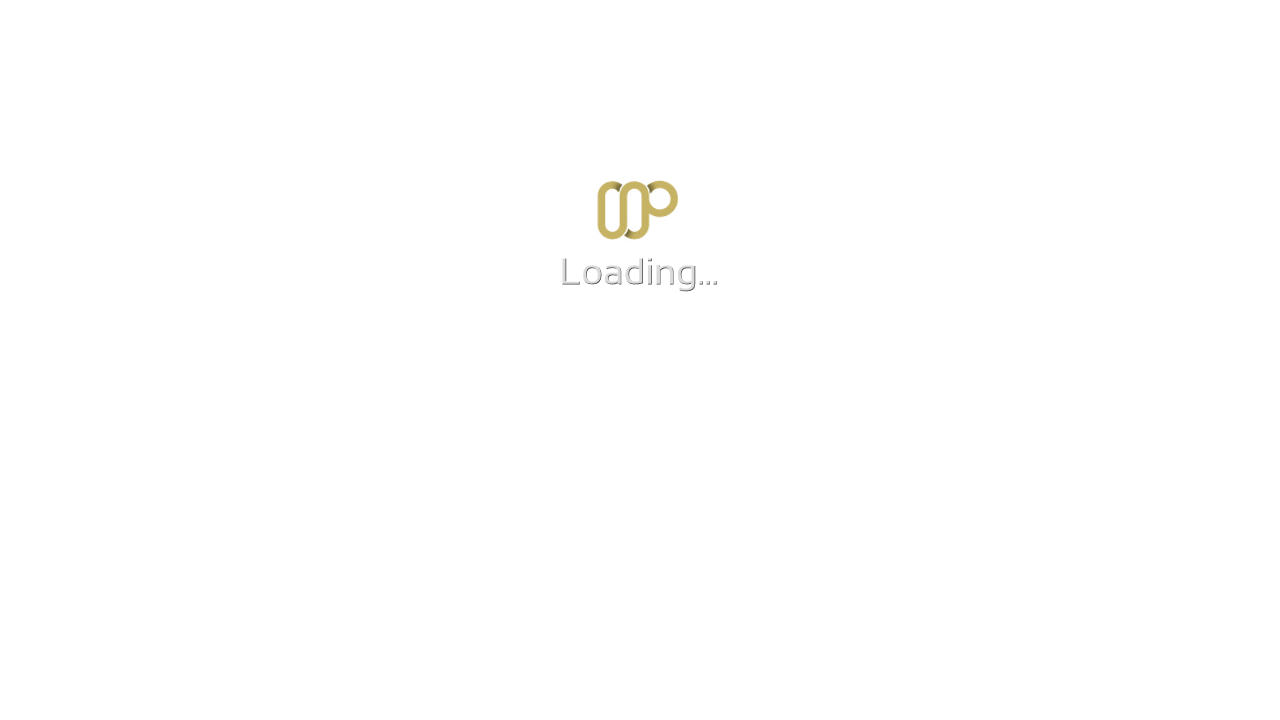
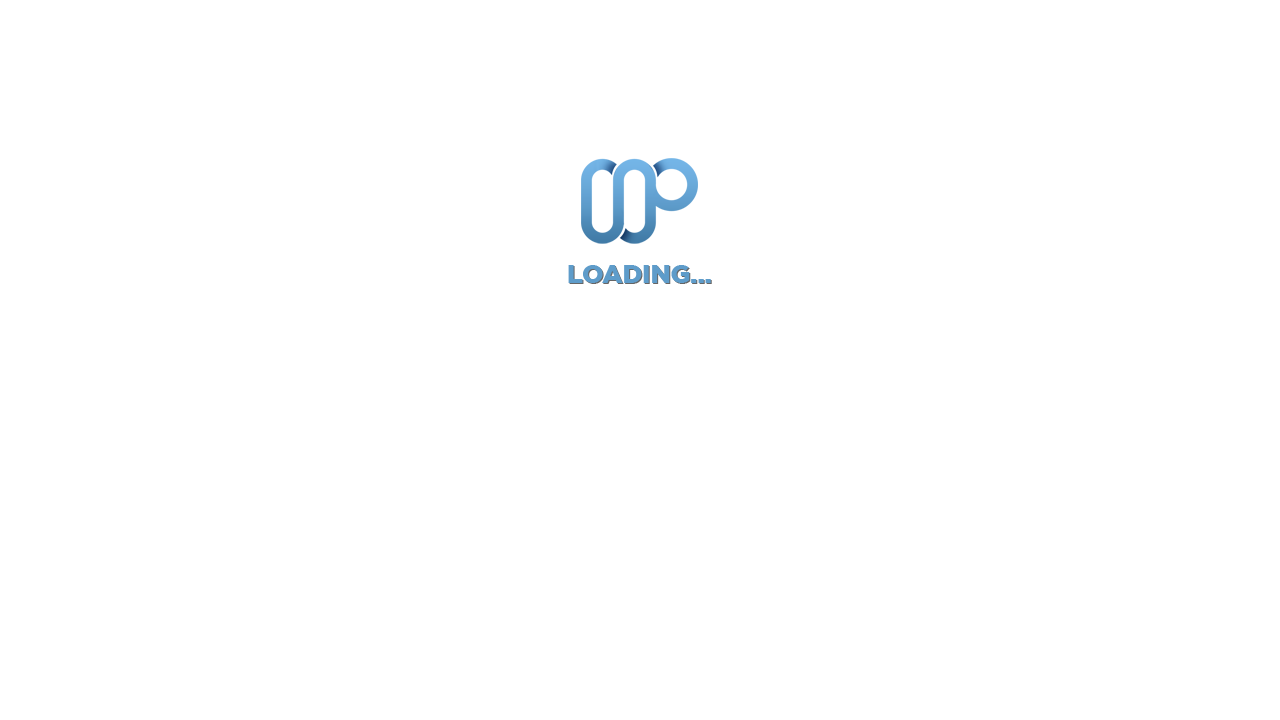
Various tweaks and changes to FH parts. Updated FH loading graphic - thx blackEyEz

Changed region(s): [[0.4375, 0.2139, 0.5625, 0.3361], [0.4375, 0.3667, 0.5625, 0.3972]]

diff --git a/Editor/StreamedMPEditor/StreamedMPEditor/BasicHomeWriter.cs b/Editor/StreamedMPEditor/StreamedMPEditor/BasicHomeWriter.cs
@@ -1688,7 +1688,7 @@ namespace StreamedMPEditor
                 else
                     rawXML.Append("</visible>\n");
 
-                rawXML.AppendLine("\t\t\t<animation effect=\"fade\" start=\"0\" end=\"100\" time=\"850\">VisibleChange</animation>");
+                rawXML.AppendLine("\t\t\t<animation effect=\"fade\" start=\"10\" end=\"100\" time=\"1000\">VisibleChange</animation>"); 
                 rawXML.AppendLine("\t\t</control>");
 
                 // Add second background control for random fanart provided 
@@ -1719,7 +1719,7 @@ namespace StreamedMPEditor
                     else
                         rawXML.Append("]+control.isvisible(91919298)</visible>\n");
 
-                    rawXML.AppendLine("\t\t\t<animation effect=\"fade\" start=\"0\" end=\"100\" time=\"850\">VisibleChange</animation>");
+                    rawXML.AppendLine("\t\t\t<animation effect=\"fade\" start=\"10\" end=\"100\" time=\"1000\">VisibleChange</animation>");
                     rawXML.AppendLine("\t\t</control>");
                 }
             
@@ -1751,7 +1751,7 @@ namespace StreamedMPEditor
                             rawXML.Append("|Control.IsVisible(" + item.ids[i] + ")");
                     }
                     rawXML.Append("]+Player.HasMedia+control.isvisible(91919295)</visible>\n");
-                    rawXML.AppendLine("\t\t\t<animation effect=\"fade\" start=\"0\" end=\"100\" time=\"850\">VisibleChange</animation>");
+                    rawXML.AppendLine("\t\t\t<animation effect=\"fade\" start=\"10\" end=\"100\" time=\"1000\">VisibleChange</animation>");
                     rawXML.AppendLine("\t\t</control>");
 
                     //
@@ -1776,7 +1776,7 @@ namespace StreamedMPEditor
                             rawXML.Append("|Control.IsVisible(" + item.ids[i] + ")");
                     }
                     rawXML.Append("]+Player.HasMedia+control.isvisible(91919296)</visible>\n");
-                    rawXML.AppendLine("\t\t\t<animation effect=\"fade\" start=\"0\" end=\"100\" time=\"850\">VisibleChange</animation>");
+                    rawXML.AppendLine("\t\t\t<animation effect=\"fade\" start=\"10\" end=\"100\" time=\"1000\">VisibleChange</animation>");
                     rawXML.AppendLine("\t\t</control>");
                 }
 
@@ -1986,7 +1986,7 @@ namespace StreamedMPEditor
             if (weatherId.ToString().Length == 5)
               rawXML.AppendLine("\t<visible>plugin.isenabled(InfoService)+control.isvisible(" + int.Parse(weatherId.ToString()) + ")|control.isvisible(" + int.Parse((weatherId + 1).ToString()) + ")</visible>");
             else
-              rawXML.AppendLine("\t<visible>plugin.isenabled(InfoService)+control.isvisible(" + int.Parse(weatherId.ToString()) + ")</visible>");
+              rawXML.AppendLine("\t<visible>plugin.isenabled(InfoService)+[Control.HasFocus(" + (weatherId + 500).ToString() + ")|Control.HasFocus(" + (weatherId + 600).ToString() + ")]</visible>");
             rawXML.AppendLine("</control>");
 
             rawXML.AppendLine("\n<control>");
@@ -1996,7 +1996,7 @@ namespace StreamedMPEditor
             if (weatherId.ToString().Length == 5)
               rawXML.AppendLine("\t<visible>plugin.isenabled(InfoService)+control.isvisible(" + int.Parse(weatherId.ToString()) + ")|control.isvisible(" + int.Parse((weatherId + 1).ToString()) + ")</visible>");
             else
-              rawXML.AppendLine("\t<visible>plugin.isenabled(InfoService)+control.isvisible(" + int.Parse(weatherId.ToString()) + ")</visible>");
+              rawXML.AppendLine("\t<visible>plugin.isenabled(InfoService)+[Control.HasFocus(" + (weatherId + 500).ToString() + ")|Control.HasFocus(" + (weatherId + 600).ToString() + ")]</visible>");
             rawXML.AppendLine("\t<animation effect=\"fade\" delay=\"600\" time=\"300\">Visible</animation>");
 
 
@@ -2057,8 +2057,11 @@ namespace StreamedMPEditor
             if (weatherId.ToString().Length == 5)
               rawXML.AppendLine("\t<visible>plugin.isenabled(InfoService)+control.isvisible(" + int.Parse(weatherId.ToString()) + ")|control.isvisible(" + int.Parse((weatherId + 1).ToString()) + ")</visible>");
             else
-              rawXML.AppendLine("\t<visible>plugin.isenabled(InfoService)+control.isvisible(" + int.Parse(weatherId.ToString()) + ")</visible>"); rawXML.AppendLine("\t\t<animation effect=\"fade\" delay=\"1000\" time=\"300\" tween=\"linear\">Visible</animation>");
-            rawXML.AppendLine("\t</control>"); 
+              rawXML.AppendLine("\t<visible>plugin.isenabled(InfoService)+[Control.HasFocus(" + (weatherId + 500).ToString() + ")|Control.HasFocus(" + (weatherId + 600).ToString() + ")]</visible>");
+              
+            rawXML.AppendLine("\t\t<animation effect=\"fade\" delay=\"1000\" time=\"300\" tween=\"linear\">Visible</animation>");
+            rawXML.AppendLine("\t</control>");
+
             for (i = 1; i < 5; i++)
             {
                 rawXML.AppendLine("\n\t<control>");
@@ -2091,7 +2094,7 @@ namespace StreamedMPEditor
                 if (weatherId.ToString().Length == 5)
                   rawXML.AppendLine("\t<visible>plugin.isenabled(InfoService)+control.isvisible(" + int.Parse(weatherId.ToString()) + ")|control.isvisible(" + int.Parse((weatherId + 1).ToString()) + ")</visible>");
                 else
-                  rawXML.AppendLine("\t<visible>plugin.isenabled(InfoService)+control.isvisible(" + int.Parse(weatherId.ToString()) + ")</visible>"); rawXML.AppendLine("\t\t<animation effect=\"fade\" delay=\"1000\" time=\"300\" tween=\"linear\">Visible</animation>");
+                  rawXML.AppendLine("\t<visible>plugin.isenabled(InfoService)+[Control.HasFocus(" + (weatherId + 500).ToString() + ")|Control.HasFocus(" + (weatherId + 600).ToString() + ")]</visible>"); rawXML.AppendLine("\t\t<animation effect=\"fade\" delay=\"1000\" time=\"300\" tween=\"linear\">Visible</animation>");
                 rawXML.AppendLine("\t</control>");
             }
             // ************************************* Weather Text Items *******************************
@@ -2104,7 +2107,8 @@ namespace StreamedMPEditor
               rawXML.AppendLine("\t<visible>plugin.isenabled(InfoService)+control.isvisible(" + int.Parse(weatherId.ToString()) + ")|control.isvisible(" + int.Parse((weatherId + 1).ToString()) + ")</visible>");
 
             else
-              rawXML.AppendLine("\t<visible>plugin.isenabled(InfoService)+control.isvisible(" + int.Parse(weatherId.ToString()) + ")</visible>");            // ************************************* Day 1 ****************************************
+              rawXML.AppendLine("\t<visible>plugin.isenabled(InfoService)+[Control.HasFocus(" + (weatherId + 500).ToString() + ")|Control.HasFocus(" + (weatherId + 600).ToString() + ")]</visible>");
+            // ************************************* Day 1 ****************************************
             rawXML.AppendLine("\n\t<control>");
             rawXML.AppendLine("\t\t<description>DAY 1 LABEL</description>");
             rawXML.AppendLine("\t\t<type>label</type>");
@@ -2441,10 +2445,10 @@ namespace StreamedMPEditor
             if (weatherId.ToString().Length == 5)
               rawXML.AppendLine("\t<visible>plugin.isenabled(InfoService)+control.isvisible(" + int.Parse(weatherId.ToString()) + ")|control.isvisible(" + int.Parse((weatherId + 1).ToString()) + ")</visible>");
             else
-              rawXML.AppendLine("\t<visible>plugin.isenabled(InfoService)+control.isvisible(" + int.Parse(weatherId.ToString()) + ")</visible>");
+              rawXML.AppendLine("\t<visible>plugin.isenabled(InfoService)+[Control.HasFocus(" + (weatherId + 500).ToString() + ")|Control.HasFocus(" + (weatherId + 600).ToString() + ")]</visible>");
             rawXML.AppendLine("</control>");
 
-            // Group for Weater Backgrounds
+            // Group for Weather Backgrounds
             rawXML.AppendLine("\n<control>");
             rawXML.AppendLine("\t<description>GROUP: FIVE DAY WEATHER BACKGROUNDS</description>");
             rawXML.AppendLine("\t<type>group</type>");
@@ -2452,7 +2456,7 @@ namespace StreamedMPEditor
             if (weatherId.ToString().Length == 5)
               rawXML.AppendLine("\t<visible>plugin.isenabled(InfoService)+control.isvisible(" + int.Parse(weatherId.ToString()) + ")|control.isvisible(" + int.Parse((weatherId + 1).ToString()) + ")</visible>");
             else
-              rawXML.AppendLine("\t<visible>plugin.isenabled(InfoService)+control.isvisible(" + int.Parse(weatherId.ToString()) + ")</visible>");
+              rawXML.AppendLine("\t<visible>plugin.isenabled(InfoService)+[Control.HasFocus(" + (weatherId + 500).ToString() + ")|Control.HasFocus(" + (weatherId + 600).ToString() + ")]</visible>");
             rawXML.AppendLine("\t<animation effect=\"fade\" delay=\"600\" time=\"300\">Visible</animation>");
             for (i = 0; i < 5; i++)
             {
@@ -2479,7 +2483,7 @@ namespace StreamedMPEditor
             if (weatherId.ToString().Length == 5)
               rawXML.AppendLine("\t<visible>plugin.isenabled(InfoService)+control.isvisible(" + int.Parse(weatherId.ToString()) + ")|control.isvisible(" + int.Parse((weatherId + 1).ToString()) + ")</visible>");
             else
-              rawXML.AppendLine("\t<visible>plugin.isenabled(InfoService)+control.isvisible(" + int.Parse(weatherId.ToString()) + ")</visible>");
+              rawXML.AppendLine("\t<visible>plugin.isenabled(InfoService)+[Control.HasFocus(" + (weatherId + 500).ToString() + ")|Control.HasFocus(" + (weatherId + 600).ToString() + ")]</visible>");
             // ********************* Weather Icons **************************************
             for (i = 0; i < 5; i++)
             {
@@ -2505,7 +2509,7 @@ namespace StreamedMPEditor
                 if (weatherId.ToString().Length == 5)
                   rawXML.AppendLine("\t<visible>plugin.isenabled(InfoService)+control.isvisible(" + int.Parse(weatherId.ToString()) + ")|control.isvisible(" + int.Parse((weatherId + 1).ToString()) + ")</visible>");
                 else
-                  rawXML.AppendLine("\t<visible>plugin.isenabled(InfoService)+control.isvisible(" + int.Parse(weatherId.ToString()) + ")</visible>");
+                  rawXML.AppendLine("\t<visible>plugin.isenabled(InfoService)+[Control.HasFocus(" + (weatherId + 500).ToString() + ")|Control.HasFocus(" + (weatherId + 600).ToString() + ")]</visible>");
                 rawXML.AppendLine("\t\t<animation effect=\"fade\" delay=\"1000\" time=\"300\" tween=\"linear\">Visible</animation>");
                 rawXML.AppendLine("\t</control>");
 
@@ -2537,7 +2541,7 @@ namespace StreamedMPEditor
             if (weatherId.ToString().Length == 5)
               rawXML.AppendLine("\t<visible>plugin.isenabled(InfoService)+control.isvisible(" + int.Parse(weatherId.ToString()) + ")|control.isvisible(" + int.Parse((weatherId + 1).ToString()) + ")</visible>");
             else
-              rawXML.AppendLine("\t<visible>plugin.isenabled(InfoService)+control.isvisible(" + int.Parse(weatherId.ToString()) + ")</visible>");
+              rawXML.AppendLine("\t<visible>plugin.isenabled(InfoService)+[Control.HasFocus(" + (weatherId + 500).ToString() + ")|Control.HasFocus(" + (weatherId + 600).ToString() + ")]</visible>");
             // **************************************** DAY 1 *********************************************
             rawXML.AppendLine("\n\t<control>");
             rawXML.AppendLine("\t\t<description>DAY 1 LABEL</description>");
@@ -2873,7 +2877,7 @@ namespace StreamedMPEditor
             if (weatherId.ToString().Length == 5)
               rawXML.AppendLine("\t<visible>plugin.isenabled(InfoService)+control.isvisible(" + int.Parse(weatherId.ToString()) + ")|control.isvisible(" + int.Parse((weatherId + 1).ToString()) + ")</visible>");
             else
-              rawXML.AppendLine("\t<visible>plugin.isenabled(InfoService)+control.isvisible(" + int.Parse(weatherId.ToString()) + ")</visible>");
+              rawXML.AppendLine("\t<visible>plugin.isenabled(InfoService)+[Control.HasFocus(" + (weatherId + 500).ToString() + ")|Control.HasFocus(" + (weatherId + 600).ToString() + ")]</visible>");
             rawXML.AppendLine("\t<animation effect=\"fade\" delay=\"600\" time=\"300\">Visible</animation>");
             for (i = 0; i < 5; i++)
             {
@@ -2899,7 +2903,7 @@ namespace StreamedMPEditor
             if (weatherId.ToString().Length == 5)
               rawXML.AppendLine("\t<visible>plugin.isenabled(InfoService)+control.isvisible(" + int.Parse(weatherId.ToString()) + ")|control.isvisible(" + int.Parse((weatherId + 1).ToString()) + ")</visible>");
             else
-              rawXML.AppendLine("\t<visible>plugin.isenabled(InfoService)+control.isvisible(" + int.Parse(weatherId.ToString()) + ")</visible>");
+              rawXML.AppendLine("\t<visible>plugin.isenabled(InfoService)+[Control.HasFocus(" + (weatherId + 500).ToString() + ")|Control.HasFocus(" + (weatherId + 600).ToString() + ")]</visible>");
             // ********************* Weather Icons **************************************
             for (i = 0; i < 5; i++)
             {
@@ -2925,7 +2929,7 @@ namespace StreamedMPEditor
                 if (weatherId.ToString().Length == 5)
                   rawXML.AppendLine("\t<visible>plugin.isenabled(InfoService)+control.isvisible(" + int.Parse(weatherId.ToString()) + ")|control.isvisible(" + int.Parse((weatherId + 1).ToString()) + ")</visible>");
                 else
-                  rawXML.AppendLine("\t<visible>plugin.isenabled(InfoService)+control.isvisible(" + int.Parse(weatherId.ToString()) + ")</visible>");
+                  rawXML.AppendLine("\t<visible>plugin.isenabled(InfoService)+[Control.HasFocus(" + (weatherId + 500).ToString() + ")|Control.HasFocus(" + (weatherId + 600).ToString() + ")]</visible>");
                 rawXML.AppendLine("\t<animation effect=\"fade\" delay=\"1000\" time=\"300\" tween=\"linear\">Visible</animation>");
                 rawXML.AppendLine("\t</control>");
             }
@@ -2939,7 +2943,7 @@ namespace StreamedMPEditor
             if (weatherId.ToString().Length == 5)
               rawXML.AppendLine("\t<visible>plugin.isenabled(InfoService)+control.isvisible(" + int.Parse(weatherId.ToString()) + ")|control.isvisible(" + int.Parse((weatherId + 1).ToString()) + ")</visible>");
             else
-              rawXML.AppendLine("\t<visible>plugin.isenabled(InfoService)+control.isvisible(" + int.Parse(weatherId.ToString()) + ")</visible>");
+              rawXML.AppendLine("\t<visible>plugin.isenabled(InfoService)+[Control.HasFocus(" + (weatherId + 500).ToString() + ")|Control.HasFocus(" + (weatherId + 600).ToString() + ")]</visible>");
             // ************************************* Day 1 ****************************************
             rawXML.AppendLine("\n\t<control>");
             rawXML.AppendLine("\t\t<description>DAY 1 LABEL</description>");

diff --git a/Editor/StreamedMPEditor/StreamedMPEditor/WriteOverlay.cs b/Editor/StreamedMPEditor/StreamedMPEditor/WriteOverlay.cs
@@ -143,7 +143,7 @@ namespace StreamedMPEditor
                     "\t\t\t<height>114</height>\n" +
                     "\t\t\t<texture>#fanarthandler.music.backdrop1.play</texture>\n" +
                     "\t\t\t<visible>control.isvisible(3339)+Player.HasMedia+control.isvisible(91919295)+![window.istopmost(0)|window.istopmost(34)]+!control.isvisible(6767)+!control.isvisible(" + int.Parse(weatherId.ToString()) + ")</visible>\n" +
-                    "\t\t\t<animation effect=" + quote + "fade" + quote + " start=" + quote + "10" + quote + " end=" + quote + "100" + quote + " time=" + quote +"850" + quote + ">VisibleChange</animation>\n" +
+                    "\t\t\t<animation effect=" + quote + "fade" + quote + " start=" + quote + "10" + quote + " end=" + quote + "100" + quote + " time=" + quote +"1000" + quote + ">VisibleChange</animation>\n" +
                   "\t\t</control>\n" +
                   "\t\t<control>\n" +
                     "\t\t\t<description>PICTURES NOW PLAYING BACKGROUND 2</description>\n" +
@@ -155,7 +155,7 @@ namespace StreamedMPEditor
                     "\t\t\t<height>114</height>\n" +
                     "\t\t\t<texture>#fanarthandler.music.backdrop2.play</texture>\n" +
                     "\t\t\t<visible>control.isvisible(3339)+Player.HasMedia+control.isvisible(91919296)+![window.istopmost(0)|window.istopmost(34)]+!control.isvisible(6767)+!control.isvisible(" + int.Parse(weatherId.ToString()) + ")</visible>\n" +
-                    "\t\t\t<animation effect=" + quote + "fade" + quote + " start=" + quote + "10" + quote + " end=" + quote + "100" + quote + " time=" + quote + "850" + quote + ">VisibleChange</animation>\n" +
+                    "\t\t\t<animation effect=" + quote + "fade" + quote + " start=" + quote + "10" + quote + " end=" + quote + "100" + quote + " time=" + quote + "1000" + quote + ">VisibleChange</animation>\n" +
                   "\t\t</control>\n" +
                   "\t\t<control>\n" +
                     "\t\t\t<description>Overlay Mask</description>\n" +
